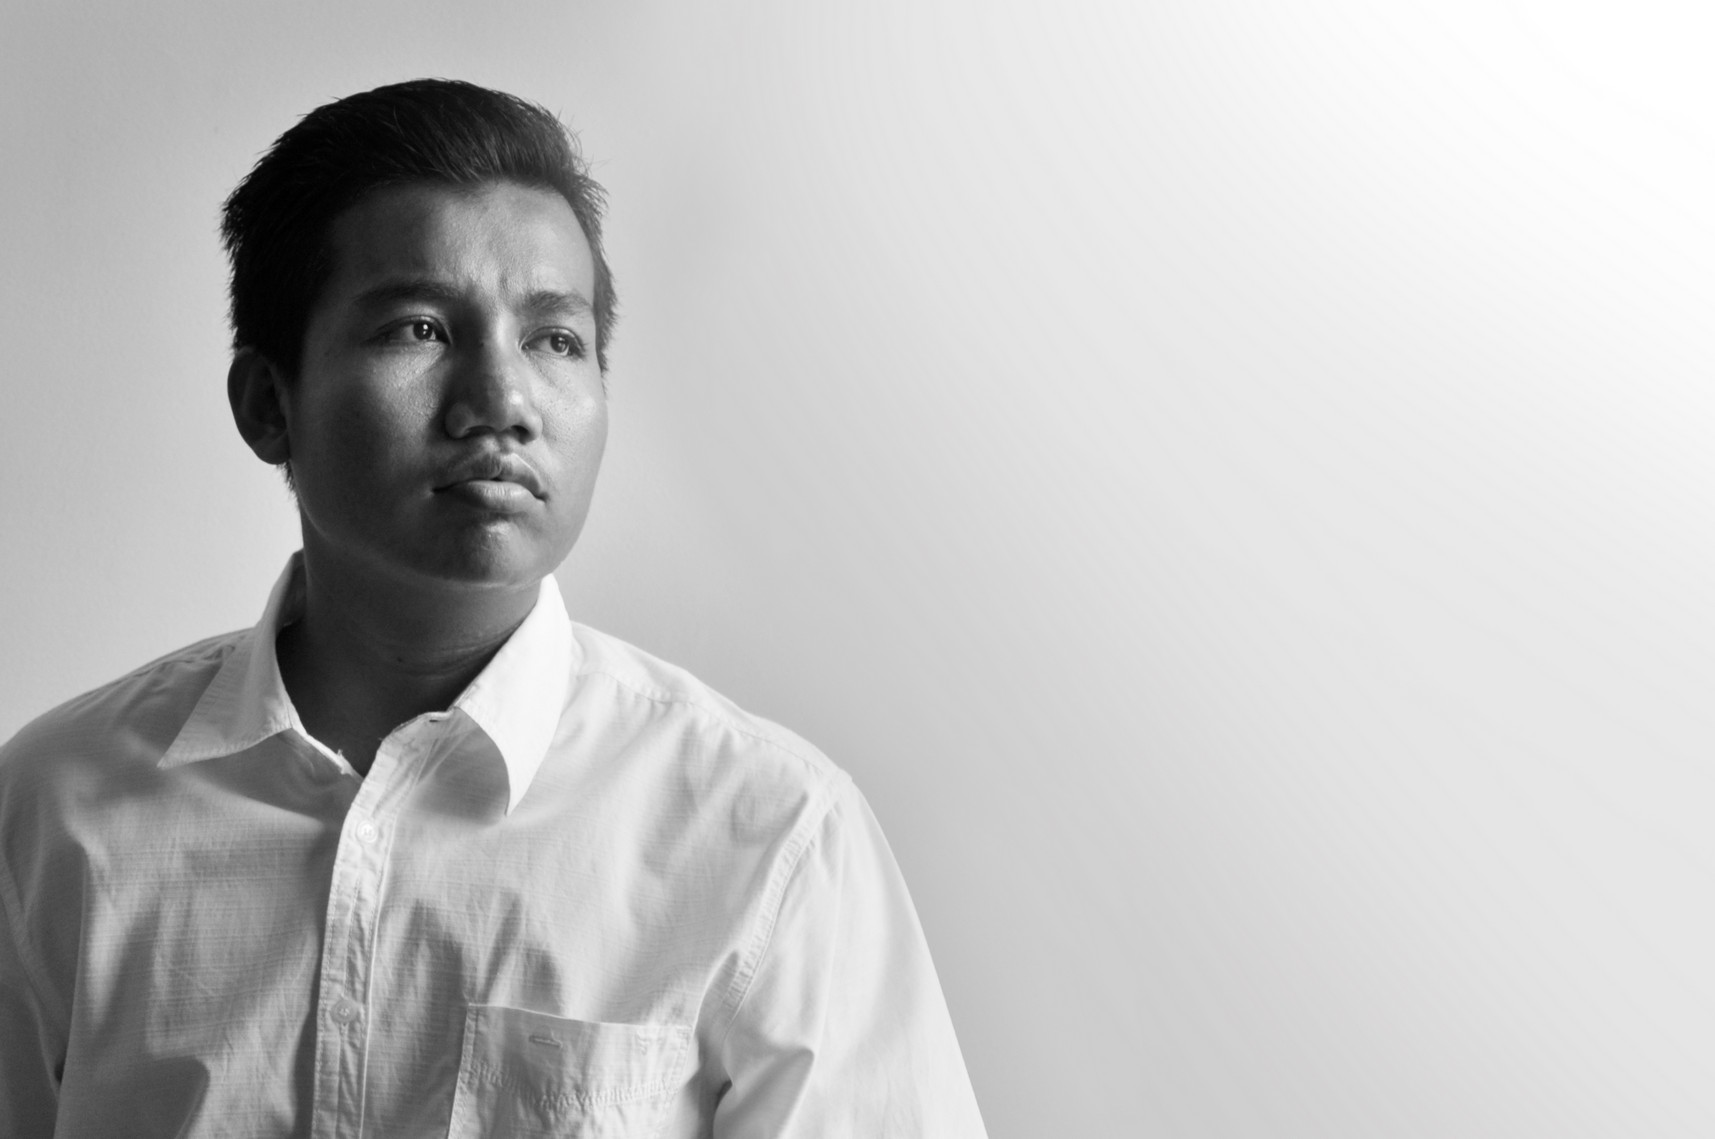
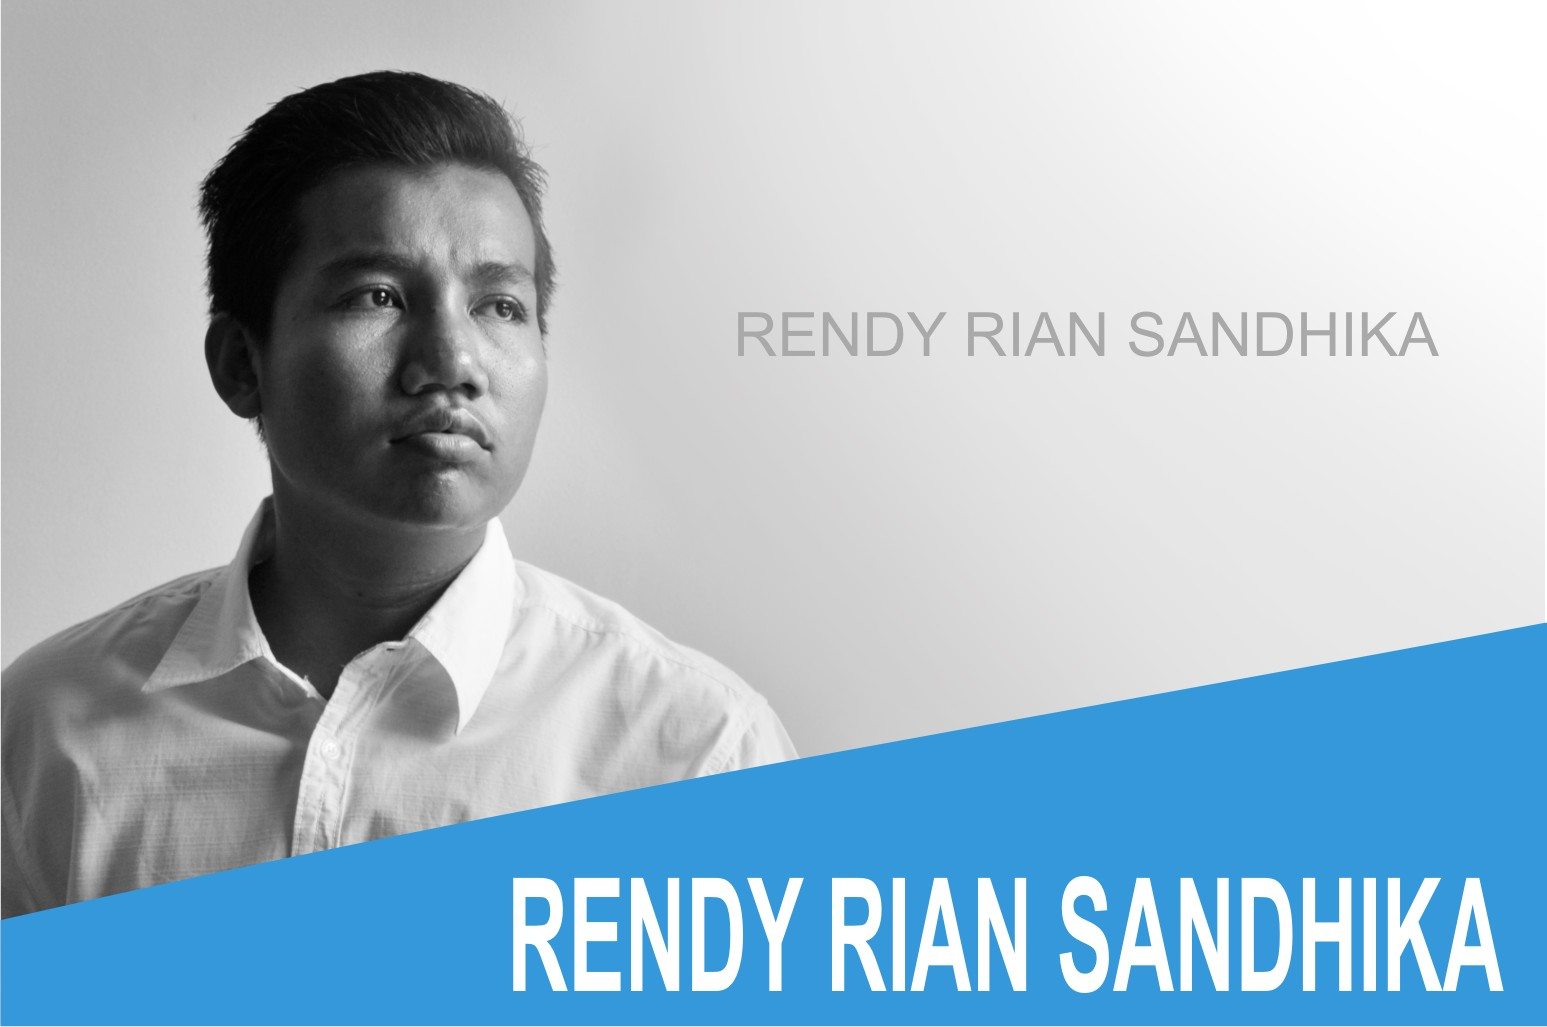
tambah foto asli, udah ada bagian about me, animasi header ok

Changed region(s): [[0.0, 0.592, 1.0, 1.0], [0.4654, 0.2804, 0.9308, 0.3739]]

diff --git a/samples/RendyRianS/css/style.css b/samples/RendyRianS/css/style.css
@@ -8,25 +8,28 @@ body {
 	width: 100%;
 	height: 36px;
 	margin-top: 0px;
-	box-shadow: grey 0px 0px 30px;
+	box-shadow: white 0px 0px 8px;
 	background: rgba(53, 152, 219, 0.7);
 	z-index: 2;
-	top: 400px;
+	top: 499px;
 	transition: 0.4s;
+	z-index: 2;
+	top: 499px;
 }
 
-.top-zero{
+.top-zero {
 	top: 0px;
 	background: rgba(53, 152, 219, 1);
 }
 
 .header .phoneno {
 	display: inline-block;
-	font-family: 'Titillium Web', sans-serif;
-	margin: 0px 0 0 38px;
+	font-family: 'Oxygen', sans-serif;
+	margin: 3px 0 0 37px;
 	font-size: 22px;
 	opacity: 1;
 	color: #FFFFFF;
+	height: 100%;
 }
 
 .header .phoneno span {
@@ -51,26 +54,27 @@ body {
 }
 
 .header li:HOVER {
-	background-color: #FE7C60;
-	border-bottom: #2C3E50 solid 2px;
-	padding-bottom: 10px;
+	background-color: #2a80b9;
+	/* 	border-bottom: #9bd8ff solid 2px;
+	border-top: #9bd8ff solid 2px; */
 	color: #FFFFFF;
 }
 
 .header li {
 	list-style: none;
 	display: inline-block;
-	font-family: 'Titillium Web', sans-serif;
+	font-family: 'Oxygen', sans-serif;
 	font-size: 18px;
 	margin-top: 0px;
 	height: 100%;
 	text-align: center;
 	transition: 0.5s;
-	padding-top: 4px;
-	padding-bottom: 0px;
+	padding-top: 7px;
+	padding-bottom: 6px;
 	padding-left: 20px;
 	padding-right: 20px;
 	border-bottom: transparent solid 2px;
+	padding-bottom: 6px;
 }
 
 .header a {
@@ -88,7 +92,7 @@ body {
 	position: absolute;
 	min-width: 100%;
 	z-index: 1;
-	height: 436px;
+	height: 570px;
 }
 
 .home {
@@ -100,12 +104,18 @@ body {
 	background-size: 100% auto;
 	background-image: url("/images/mainbg.jpg");
 	background-attachment: fixed;
-	background-position: center center;
+	background-position: 0px -45px;
+	transition: 0.5s;
+}
+
+.pullup {
+	top: -35px;
+	background-size: 105% auto;
 }
 
 .about {
 	position: absolute;
-	top: 595px;
+	top: 535px;
 	min-width: 100%;
 	height: 500px;
 	background: #FFFFFF;
@@ -113,13 +123,16 @@ body {
 
 .about .abouttext {
 	height: 500px;
-	width: 50%;
+	width: 100%;
 	position: absolute;
-	display: inline-block;
-	background-color: rgba(147, 41, 41, 1);
+	display: block;
+	background-color: #2a80b9;
 	color: #FFFFFF;
 	font-family: 'Titillium Web', sans-serif;
-	color: #FFFFFF
+	color: #FFFFFF;
+	position: absolute;
+	display: block;
+	background-color: #2a80b9;
 }
 
 .about .abouttext .headertitle {
@@ -159,13 +172,14 @@ body {
 
 .about .aboutimg {
 	height: 500px;
-	width: 50%;
-	display: inline-block;
+	width: 100%;
+	display: block;
 	background-image: url("/images/aboutbg.jpg");
 	background-size: auto 100%;
-	position: absolute;
-	left: 50%;
+	position: relative;
+	left: 0%;
 	background-repeat: no-repeat;
+	top: 500px;
 }
 
 .menu {

diff --git a/samples/RendyRianS/javascript/index.js b/samples/RendyRianS/javascript/index.js
@@ -7,6 +7,10 @@ $.fn.exists = function() {
 $(document).ready(function() {
 	$('.popup').hide();
 	$('.list').hide();
+	if($(document).scrollTop() > 0 ){
+		$('.header').addClass('top-zero');
+		$('.home').addClass('pullup');
+	}
 	$('#ayamtulang').slideToggle(500);
 	if ($(window).width() <= 768)
 		$('.header ul').hide();
@@ -145,6 +149,7 @@ $(document).ready(function() {
 			
 			if($(document).scrollTop() > 0 ){
 				$('.header').addClass('top-zero');
+				$('.home').addClass('pullup');
 			}
 			
 		} else { // if scroll up
@@ -165,6 +170,7 @@ $(document).ready(function() {
 			}*/
 			if($(document).scrollTop() < 100){
 				$('.header').removeClass('top-zero');
+				$('.home').removeClass('pullup');
 			}
 			
 		}

diff --git a/samples/RendyRianS/index.php b/samples/RendyRianS/index.php
@@ -24,6 +24,7 @@
 <link
 	href='https://fonts.googleapis.com/css?family=Titillium+Web:400,600,700,300'
 	rel='stylesheet' type='text/css'>
+	<link href='https://fonts.googleapis.com/css?family=Oxygen:400,700,300' rel='stylesheet' type='text/css'>
 <script src="../javascript/jquery-1.12.0.min.js" type="text/javascript"></script>
 <script src="../javascript/jquery-ui.js" type="text/javascript"></script>
 <script src="../javascript/index.js" type="text/javascript"></script>
@@ -36,7 +37,7 @@
 		</p>
 		<ul>
 			<li><a class="link" href="#about">ABOUT</a></li>
-			<li><a class="link" href="#menu">BLOG</a></li>
+			<li><a class="link" target="_blank" href="http://blog.rendyrians.com">BLOG</a></li>
 			<li><a class="link" href="#gallery">GALLERY</a></li>
 			<li><a class="link" href="#works">WORK EXPERIENCES</a></li>
 			<li><a class="link" href="#education">EDUCATION</a></li>
